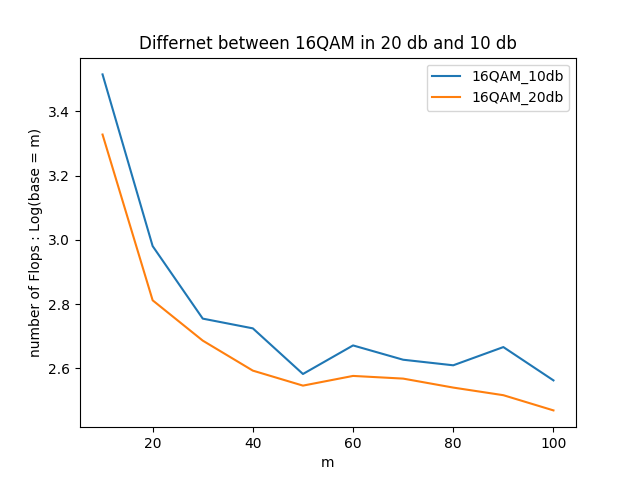
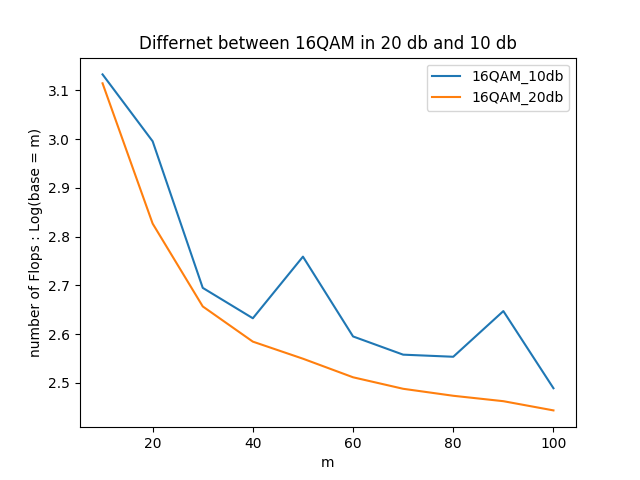
SNR relation wiht AWGN fixed

diff --git a/x.py b/x.py
@@ -1,15 +1,15 @@
 import numpy as np
 import math as math
 import matplotlib.pyplot as plt
-pltx = []
-plty = []
-pltBabai = []
-pltAlgo = []
+# pltx = []
+# plty = []
+# pltBabai = []
+# pltAlgo = []
 INF = 1000111000111
 
 
-for step in range(10,110,10):
-    pltx.append(step)
+for step in range(3,4,10):
+    # pltx.append(step)
     m = step ##transmiter
     n = step ##reciver n >= m
     sigma = 0.5 ## varianc 
@@ -29,10 +29,10 @@ for step in range(10,110,10):
     ###Input H(n,m) , d ,x(1,n) , s?(1,m)
 
     #paper sample
-    # H = np.array([[2, -1, -1] ,[-1, 0 ,  -2],[-1,-1,-1]])
-    # s = np.zeros(m)
-    # x = np.array([[-1],[1],[0]])
-
+    H = np.array([[1, 0, 0] ,[0, 1 ,  0],[0,0,1]])
+    s = np.zeros(m)
+    x = np.array([[-1.8],[1.59],[0.35]])
+    print(x)
     ###checker for Guassian sample
     # v = np.random.normal(0, sigma, n)
     # s = np.random.random_integers(0,10,(m))
@@ -44,19 +44,19 @@ for step in range(10,110,10):
 
 
     # ###random sample
-    H = 10 * np.random.rand(n,m)
-    s = 2*np.random.random_integers(1,4,(m))-5
-    v = np.random.normal(0, sigma, n)
-    x = np.dot(H,s.T) + v
+    # H = 10 * np.random.rand(n,m)
+    # s = 2*np.random.random_integers(1,4,(m))-5
+    # v = np.random.normal(0, sigma, n)
+    # x = np.dot(H,s.T) + v
     # print(s)
-    s = np.zeros(m)
+    # s = np.zeros(m)
 
     d = alpha * sigma * n
     print("Algorithm est for radius = ",np.sqrt(d))
     babaiB = np.floor(np.dot(np.linalg.pinv(H),x))
     babaiD = np.linalg.norm(x-np.dot(H,babaiB))
     print("Babai est for radius =",babaiD)
-    pltBabai.append(babaiD)
+    # pltBabai.append(babaiD)
     # s = np.zeros(m)
 
     q1 = np.zeros((n,m),dtype='complex')
@@ -107,13 +107,13 @@ for step in range(10,110,10):
                 else :
                     UB[k] = np.floor((-D[k] + _y[k]) / R[k][k])
                     s[k] = np.ceil((D[k] + _y[k]) / R[k][k])  - 1
-                te = s[k] + 1
-                for j in range(3, -4 , -2):
-                    flopsCount += 1
-                    if te > j : 
-                        break
-                    s[k] = j - 2
-            s[k] = s[k] + 2
+                # te = s[k] + 1
+                # for j in range(3, -4 , -2):
+                #     flopsCount += 1
+                #     if te > j : 
+                #         break
+                #     s[k] = j - 2
+            s[k] = s[k] + 1
             # print(k,s[k],UB[k])
             setUB = 0
             if s[k] <= UB[k] :
@@ -143,14 +143,14 @@ for step in range(10,110,10):
             d *= alpha
             print(np.sqrt(d))
         else :
-            pltAlgo.append(d)
+            # pltAlgo.append(d)
             break
 
     flopsCount *= 14
     print("flops: ",step,flopsCount)
     print(ans)
     print(answer.T)
-    plty.append(math.log(flopsCount,m))
+    # plty.append(math.log(flopsCount,m))
 ### checker for [H*answer - x == ans] 
 # print(np.dot(H,answer.T),x)   
 # print(np.dot(H,answer.T) - x.T)
@@ -170,10 +170,10 @@ for step in range(10,110,10):
 
 
 ###Plot different bitween Babai radius estimation and algorithm radius estimation
-plt.plot(pltx, pltBabai,label = "Babai estimation")
-plt.plot(pltx, pltAlgo,label = "Algorithm estimation") 
-plt.legend() 
-plt.xlabel('m') 
-plt.ylabel('Radius') 
-plt.title('Different Radius estimation') 
-plt.show() 
+# plt.plot(pltx, pltBabai,label = "Babai estimation")
+# plt.plot(pltx, pltAlgo,label = "Algorithm estimation") 
+# plt.legend() 
+# plt.xlabel('m') 
+# plt.ylabel('Radius') 
+# plt.title('Different Radius estimation') 
+# plt.show() 

diff --git a/_SD.py b/_SD.py
@@ -1,0 +1,91 @@
+import numpy as np
+import math as math
+
+
+
+def sphereDecoding(m,n,H,s,x,sigma,pltBabai = [],pltAlgo = [],QAM = 4) :
+    INF = 1000111000111
+    alpha = 2
+    
+    d = alpha * sigma * n
+    print("Algorithm est for radius = ",np.sqrt(d))
+    babaiB = np.floor(np.dot(np.linalg.pinv(H),x))
+    babaiD = np.linalg.norm(x-np.dot(H,babaiB))
+    print("Babai est for radius =",babaiD)
+    pltBabai.append(babaiD)
+
+    q1 = np.zeros((n,m),dtype='complex')
+    res = np.linalg.qr(H)
+    R = res[1]
+    q1 = res[0]
+
+    y = np.dot(q1.conj().T,x)
+    _y = y.copy()
+ 
+    D = np.zeros(m)
+    UB = np.zeros(m)
+    k = m - 1
+    D[k] = np.sqrt(d)
+    setUB = 1
+    flopsCount = 0
+    ans = INF
+    answer = np.zeros(m)
+    
+    ###Start
+    for j in range(1,10) :
+        k = m - 1
+        _y = y.copy()
+        D = np.zeros(m)
+        UB = np.zeros(m)
+        D[k] = np.sqrt(d)
+        setUB = 1
+        while True :
+            flopsCount += 1
+            if setUB == 1:
+                if (D[k] + _y[k]) / R[k][k] > (-D[k] + _y[k]) / R[k][k]  : 
+                   
+                    UB[k] = np.floor((D[k] + _y[k]) / R[k][k])
+                    s[k] = np.ceil((-D[k] + _y[k]) / R[k][k])  - 1  
+                else :
+                    UB[k] = np.floor((-D[k] + _y[k]) / R[k][k])
+                    s[k] = np.ceil((D[k] + _y[k]) / R[k][k])  - 1
+                te = s[k] + 1
+                for j in range(QAM - 1, -QAM , -2):
+                    flopsCount += 1
+                    if te > j : 
+                        break
+                    s[k] = j - 2
+            s[k] = s[k] + 2
+            # print(k,s[k],UB[k])
+            setUB = 0
+            if s[k] <= UB[k] :
+                if k == 0 :
+                    if ans > np.linalg.norm(np.dot(H,s.T)-x.T):
+                        ans = np.linalg.norm(np.dot(H,s.T)-x.T)
+                        answer = s.copy()
+                        # print("***",answer)
+                    # print(s,np.linalg.norm(np.dot(H,s.T)-x.T) )
+                else :
+                    k = k - 1
+                    _y[k] = y[k]
+                    for i in range(k+1,m) :
+                        flopsCount += 1
+                        _y[k] -= (R[k][i] * s[i])
+                
+                    D[k] = np.sqrt(D[k+1]**2 - (_y[k+1] - R[k+1][k+1] * s[k+1])**2)
+                    setUB = 1
+                continue
+            else : 
+                k = k + 1
+                if k == m :
+                    break
+
+        if ans == INF :
+            print("The Radius is not big enough")
+            d *= alpha
+            print(np.sqrt(d))
+        else :
+            pltAlgo.append(d)
+            break
+
+    return ans,answer

diff --git a/TestGenerator.py b/TestGenerator.py
@@ -1,0 +1,31 @@
+import numpy as np
+import math as math
+from _SD import *
+SNR = 20
+QAM = 4
+for step in range(1,1000):
+    m = 80 ##transmiter
+    n = 80 ##reciver n >= m
+    sigma = 1 / SNR ## varianc 
+    # random sample
+    print("**************sample :" , step)
+    
+    H = np.random.normal(0,1,(n,m))
+    v = np.random.normal(0, sigma, n)
+    s = 2 * np.random.random_integers(1,QAM,(m))- (QAM + 1)
+    x = np.dot(H,s.T) + v
+    ans, answer = sphereDecoding(m,n,H,s,x,sigma,[],[],QAM)
+    data = []
+    
+    for i in range(0,n) :
+        data.append(x[i])
+    
+    for i in range(0,n):
+        for j in range(0,m):
+            data.append(H[i][j])
+    # print(data)
+    print("**************** Distance is :" , ans)
+    
+
+
+

diff --git a/10dB _20dB.py b/10dB _20dB.py
@@ -15,7 +15,7 @@ for step in range(10,110,10):
     pltx.append(step)
     m = step ##transmiter
     n = step ##reciver n >= m
-    sigma = 1 / SNR ## varianc 
+    sigma = 1 / math.pow(10,SNR/10) ## varianc 
     # ###random sample
     H = np.random.normal(0,1,(n,m))
    
@@ -29,7 +29,7 @@ for step in range(10,110,10):
     
 
     SNR = 10
-    sigma = 1 / SNR
+    sigma = 1 / math.pow(10,SNR/10)
     print("****/////we considre 10db ////******")
     flopsCount , ans, answer = sphereDecoding(m,n,H,sigma,[],[],4)
     print("flops: ",step,flopsCount)

diff --git a/16QAM_4QAM.py b/16QAM_4QAM.py
@@ -12,7 +12,7 @@ for step in range(10,220,20):
     pltx.append(step)
     m = step ##transmiter
     n = step ##reciver n >= m
-    sigma = 1 / SNR ## varianc 
+    sigma = 1 / math.pow(10,SNR/10) ## varianc 
     # ###random sample
     H = np.random.normal(0,1,(n,m))
     flopsCount , ans, answer = sphereDecoding(m,n,H,sigma,[],[],4)

diff --git a/sphereDecoding.py b/sphereDecoding.py
@@ -11,7 +11,7 @@ for step in range(10,220,20):
     pltx.append(step)
     m = step ##transmiter
     n = step ##reciver n >= m
-    sigma = 1 / SNR ## varianc 
+    sigma = 1 / math.pow(10,SNR/10) ## varianc 
 
     # random sample
     H = np.random.normal(0,1,(n,m))
